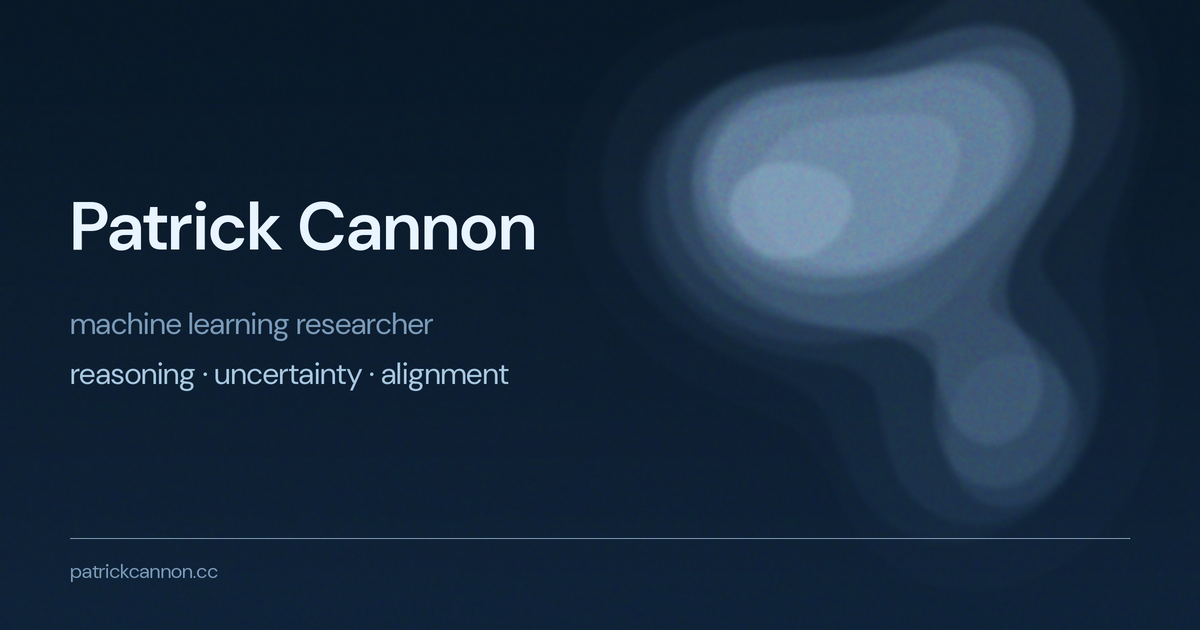
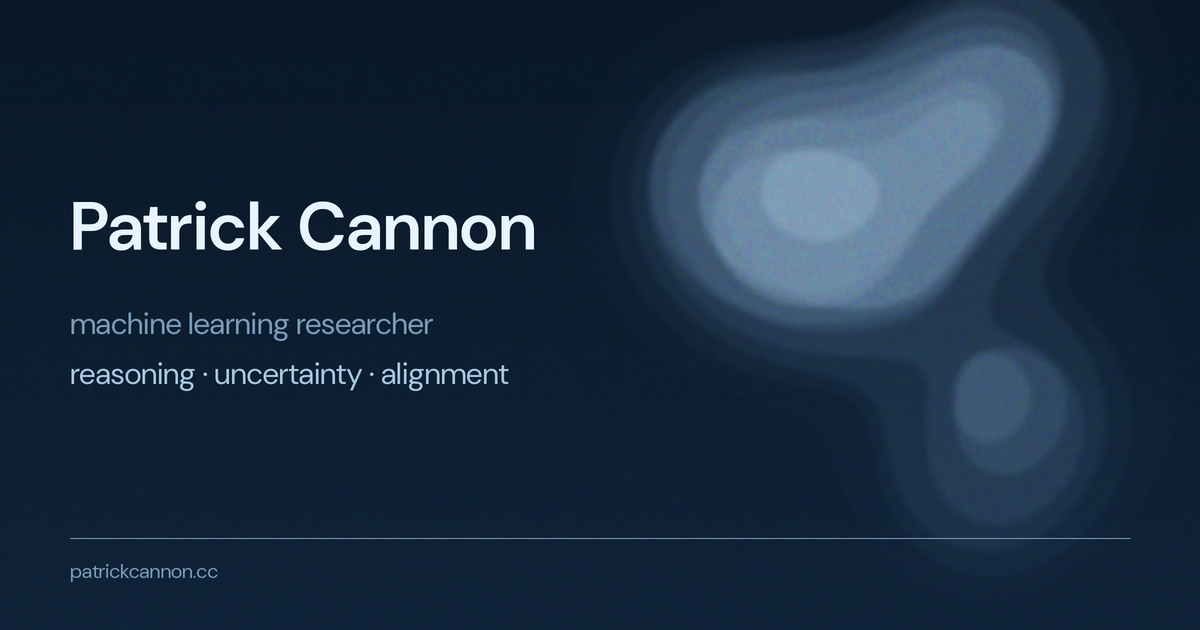
Card orb: seed 2 (CARD_SEED, decoupled from site's seed 29)
Different posterior draw per surface, by design: the motif is the
mixture and band grammar, not a particular resample.

Changed region(s): [[0.555, 0.3016, 0.8633, 0.573], [0.74, 0.0, 0.8942, 0.3016], [0.555, 0.1206, 0.74, 0.2111]]

diff --git a/_design/make_brand_assets.py b/_design/make_brand_assets.py
@@ -52,7 +52,11 @@ from make_orb_inkwash import MIXTURE, N_BANDS, bezier_d
 
 gc = load_orb_module()
 
-SEED = 29
+SEED = 29       # site orb / grain determinism
+CARD_SEED = 2   # card orb resample — deliberately a different posterior draw
+                # from the site's (decided 12 Jun 2026: the motif's identity
+                # is the mixture + band grammar, not a particular draw; each
+                # surface carrying its own resample IS the concept)
 
 # Card geometry (rendered at 2x, downsampled for crispness)
 CARD_W, CARD_H, SS = 1200, 630, 2
@@ -88,12 +92,12 @@ SKIP_BANDS = {10, 11, 13}  # 0-indexed
 BAND_ALPHAS = np.linspace(0.03, 0.58, 14)
 
 
-def band_polys():
-    """Posterior-draws bands, exactly as make_orb_inkwash.main() computes them.
+def band_polys(seed=SEED):
+    """Posterior-draws bands, exactly as make_orb_inkwash computes them.
 
     Returns a list of (polygon_points, rgba) in orb space (800x700, y down).
     """
-    rng = np.random.default_rng(SEED)
+    rng = np.random.default_rng(seed)
 
     def perturbed(comps):
         c2 = copy.deepcopy(comps)
@@ -401,7 +405,7 @@ def make_favicons(root):
 
 def main():
     root = HERE.parent
-    make_card(band_polys(), root)
+    make_card(band_polys(CARD_SEED), root)
     make_favicons(root)
 
 
